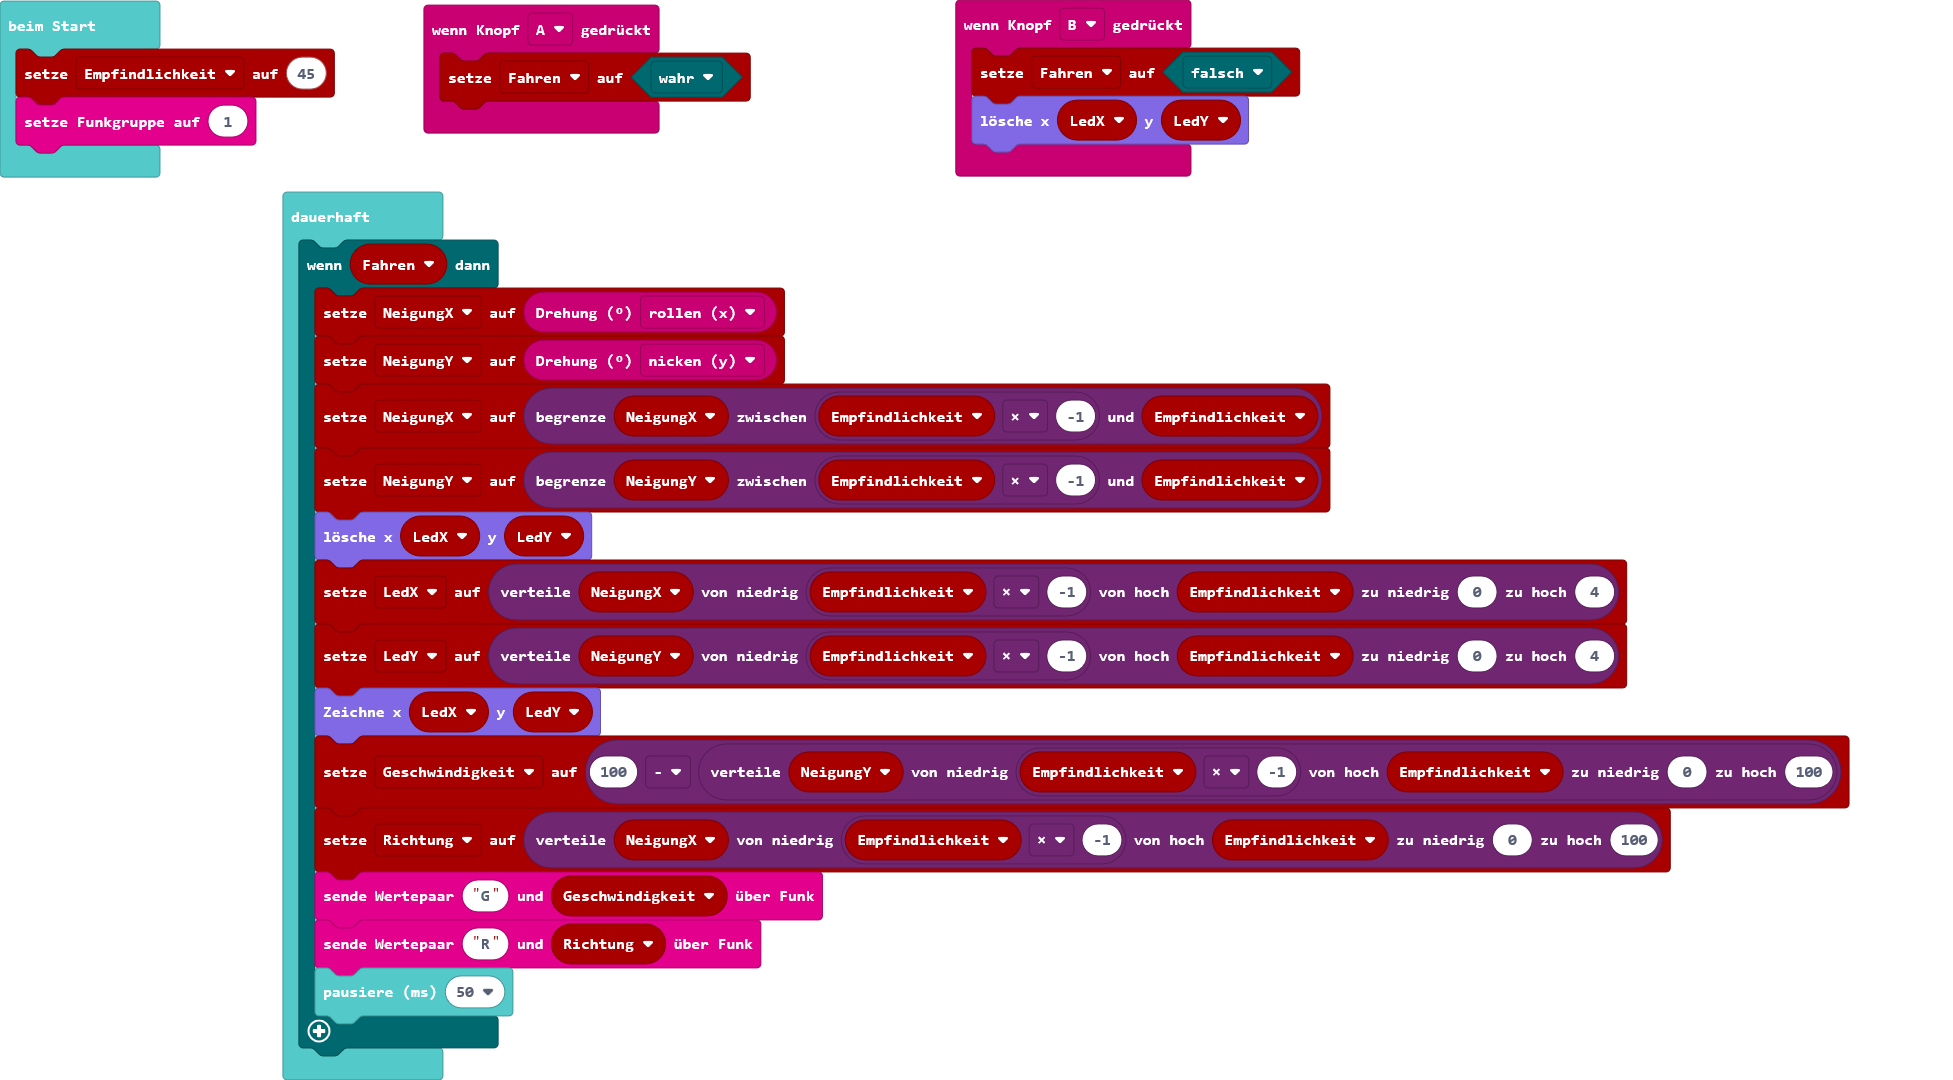
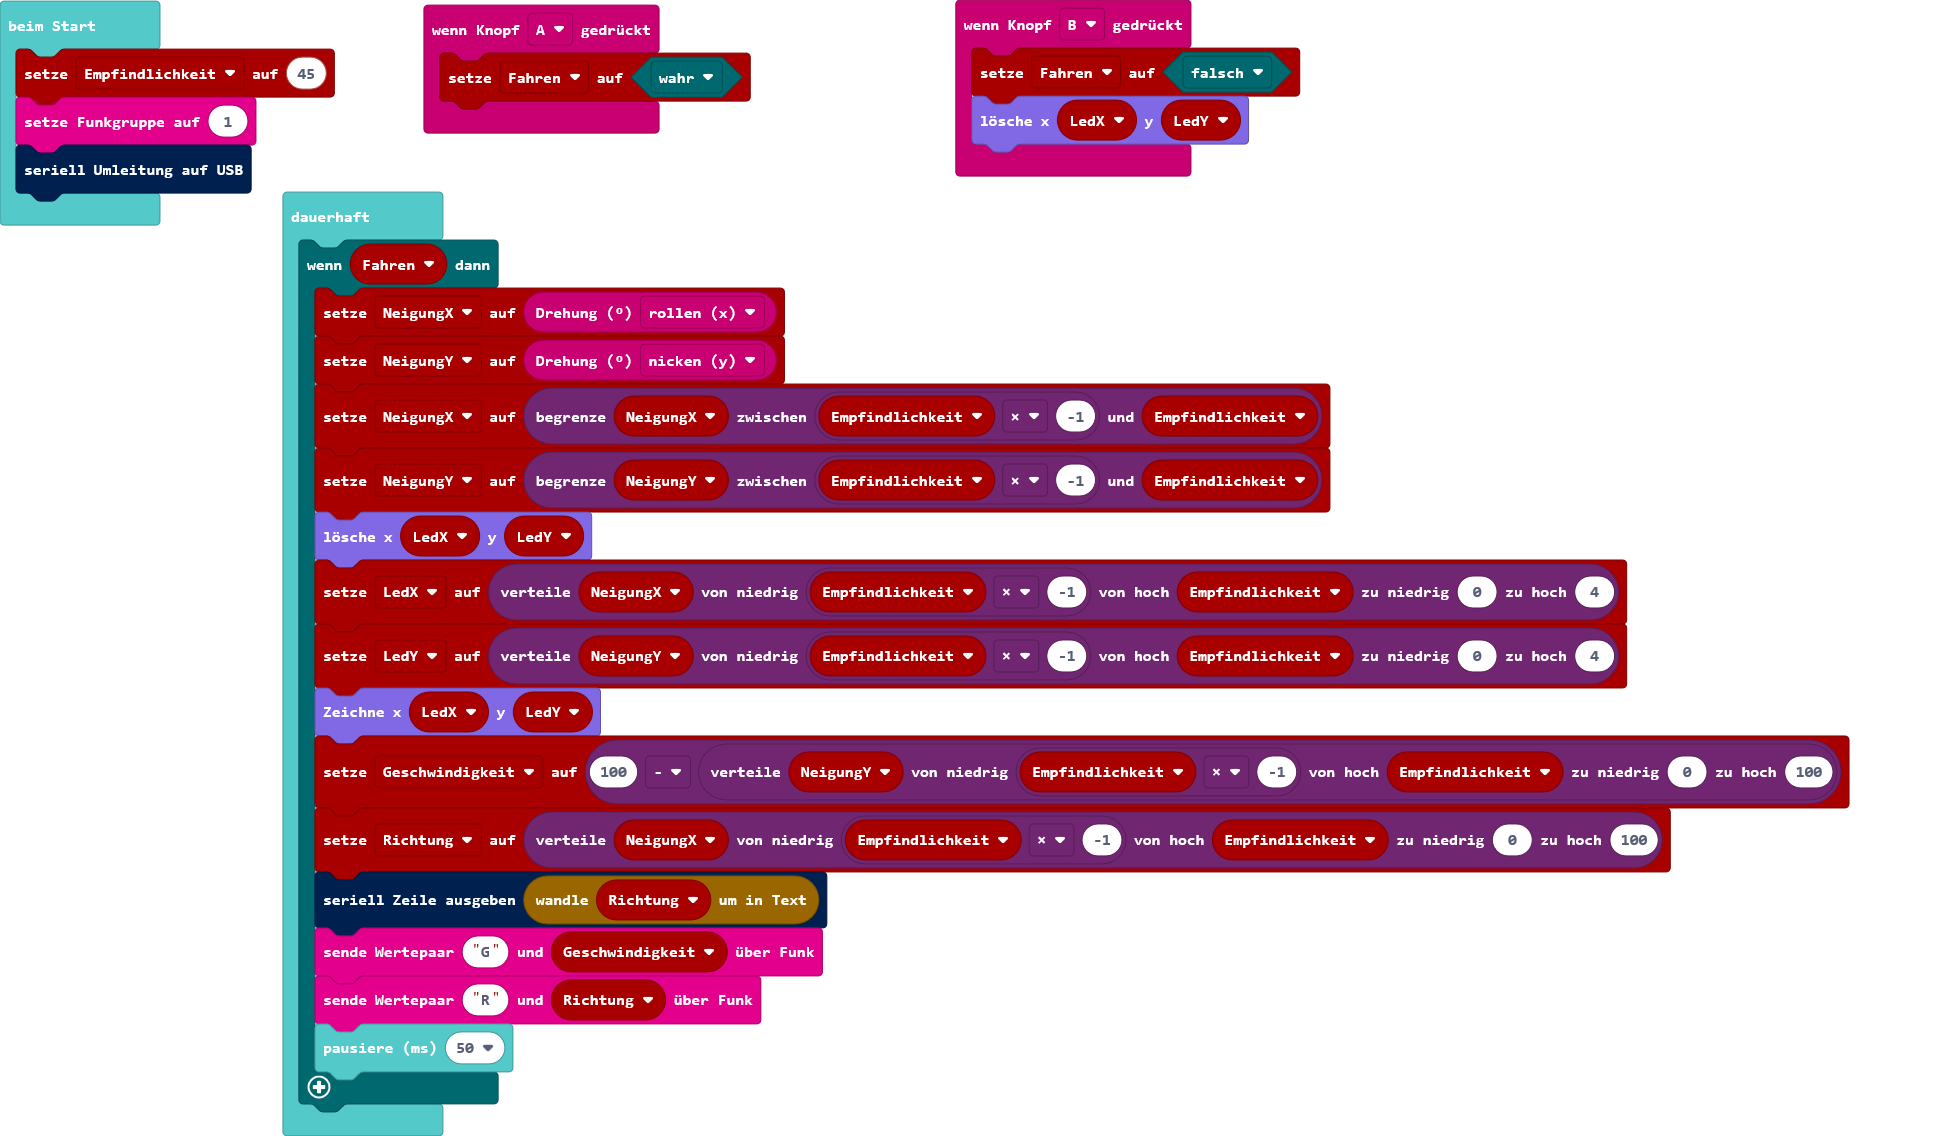
Aktualisiere main.blocks, main.ts

Changed region(s): [[0.0, 0.0, 0.9683, 0.9778], [0.4685, 0.0, 0.6559, 0.1833], [0.2186, 0.0, 0.3748, 0.1222]]

diff --git a/main.ts b/main.ts
@@ -14,6 +14,7 @@ let LedX = 0
 let Fahren = false
 let Empfindlichkeit = 45
 radio.setGroup(1)
+serial.redirectToUSB()
 basic.forever(function () {
     if (Fahren) {
         NeigungX = input.rotation(Rotation.Roll)
@@ -26,6 +27,7 @@ basic.forever(function () {
         led.plot(LedX, LedY)
         Geschwindigkeit = 100 - Math.map(NeigungY, Empfindlichkeit * -1, Empfindlichkeit, 0, 100)
         Richtung = Math.map(NeigungX, Empfindlichkeit * -1, Empfindlichkeit, 0, 100)
+        serial.writeLine(convertToText(Richtung))
         radio.sendValue("G", Geschwindigkeit)
         radio.sendValue("R", Richtung)
         basic.pause(50)
